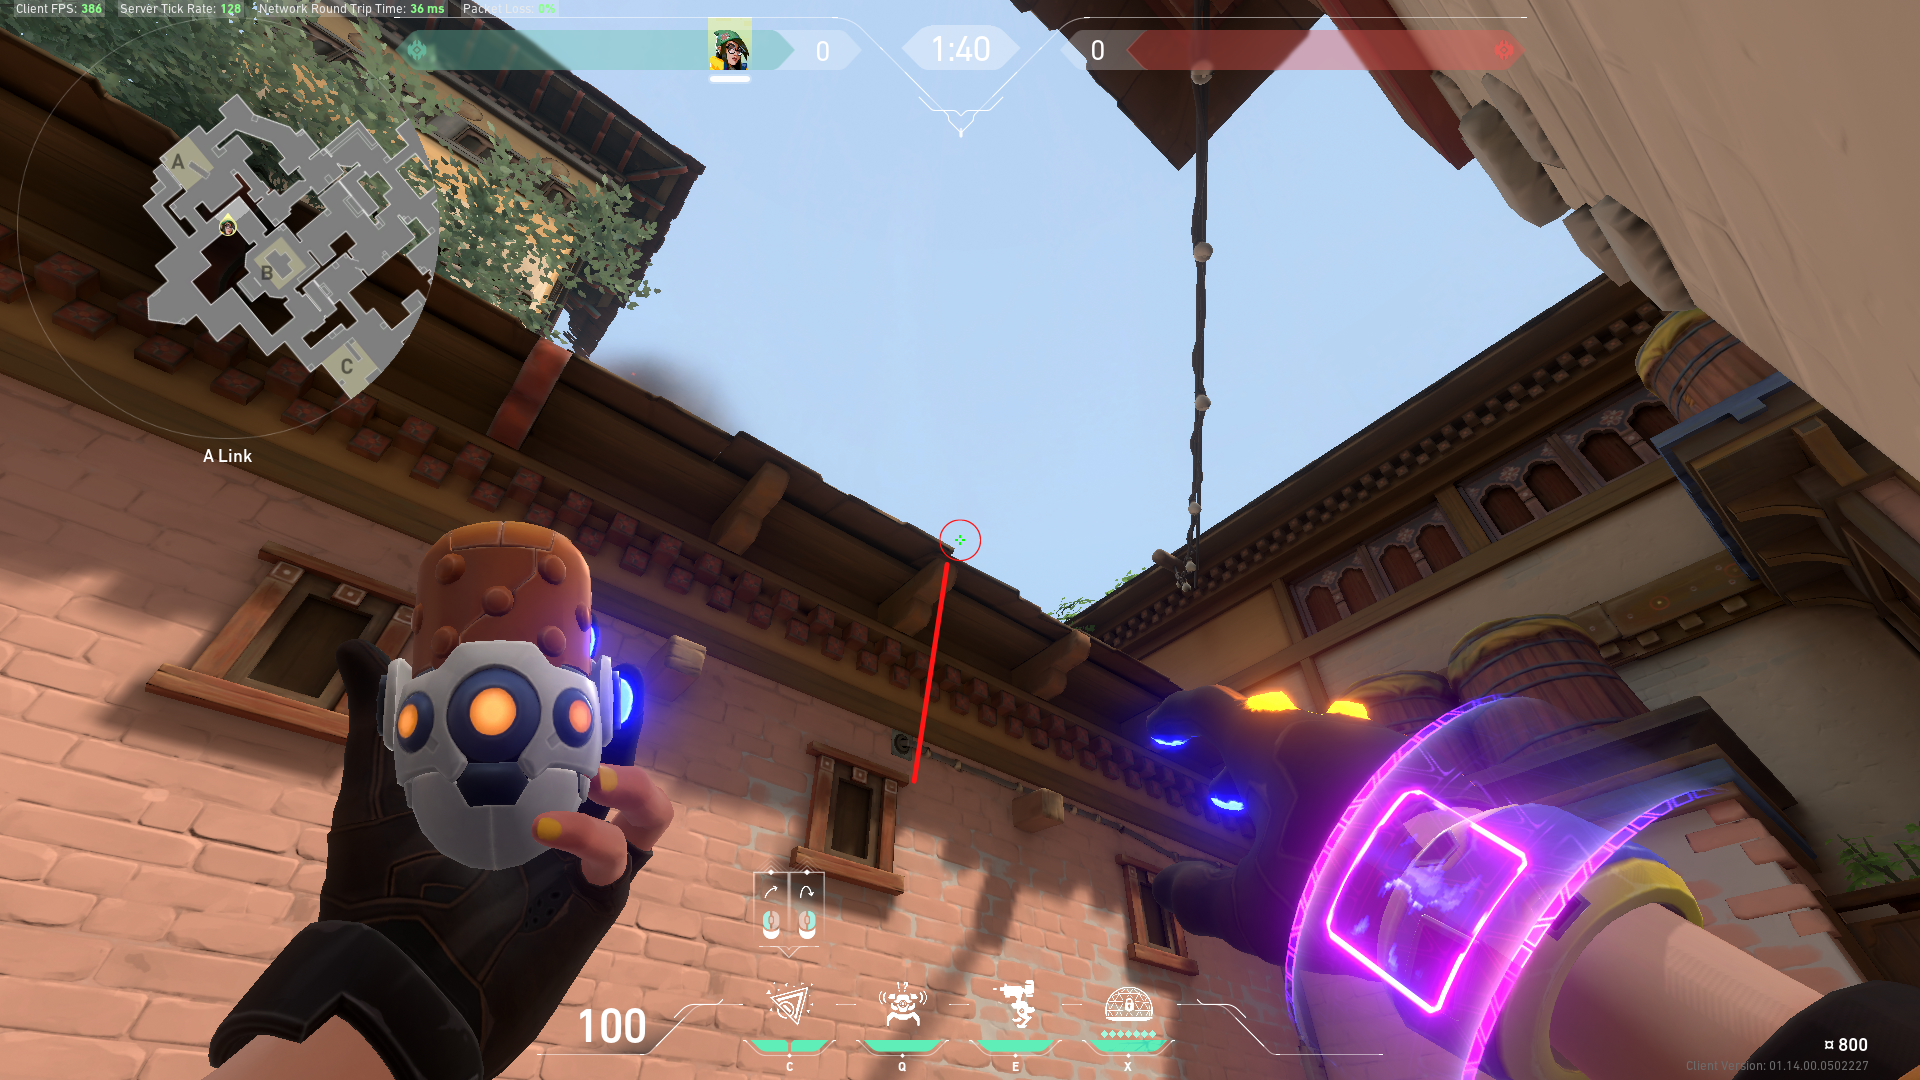
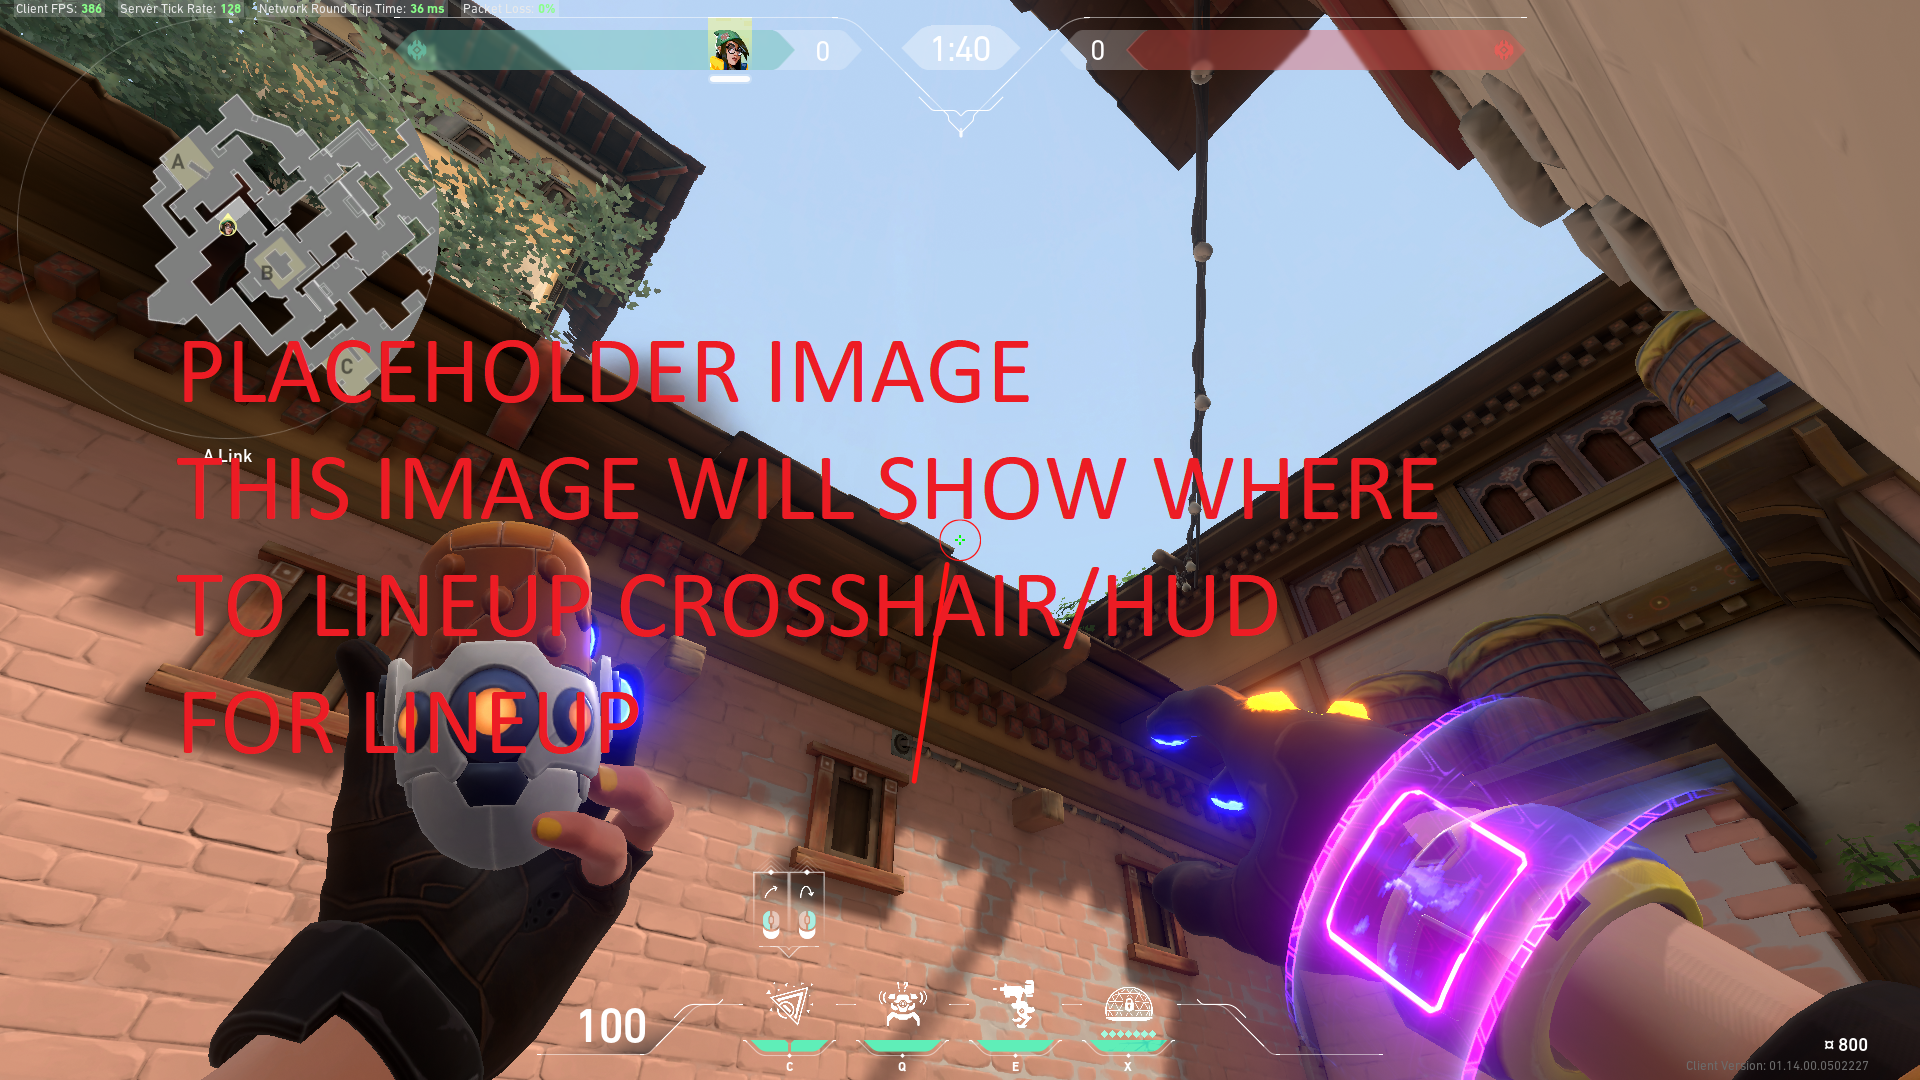
added viper,sova for ascent

diff --git a/src/lineupdata/Kayo.js b/src/lineupdata/Kayo.js
@@ -1,0 +1,57 @@
+import React from 'react'
+import './ContentPage.css'
+
+
+function Kayo(props) {
+    const {selectedImage} = props
+
+    // eslint-disable-next-line default-case
+  switch(selectedImage){
+
+    //----------------------------------------ASCENT-------------------------------------------
+    case 'ascent-a-gen' :
+        return(
+            <div>
+                <img className='agent-image' src='./images/agents/kayo.webp' alt='brimstone'
+                    style={{ left: '545px', top: '275px' }}></img>
+                <iframe className='video-frame' width="560" height="315" src="https://www.youtube.com/embed/z7HuQBXND5c?start=99" title="YouTube video player" 
+                    allow="accelerometer;" allowfullscreen></iframe>
+                <img className='picture-frame' src='./images/screenshots/killjoy/original.png' alt='PLACEHOLDER'></img>
+            </div>
+            );
+
+    case 'ascent-a-dice' :
+        return(
+            <div>
+                <img className='agent-image' src='./images/agents/kayo.webp' alt='brimstone'
+                    style={{ left: '545px', top: '275px' }}></img>
+                <iframe className='video-frame' width="560" height="315" src="https://www.youtube.com/embed/z7HuQBXND5c?start=113" title="YouTube video player" 
+                    allow="accelerometer;" allowfullscreen></iframe>
+                <img className='picture-frame' src='./images/screenshots/killjoy/original.png' alt='PLACEHOLDER'></img>
+            </div>
+            );
+    case 'ascent-b-default' :
+        return(
+            <div>
+                <img className='agent-image' src='./images/agents/kayo.webp' alt='brimstone'
+                    style={{ left: '565px', top: '755px' }}></img>
+                <iframe className='video-frame' width="560" height="315" src="https://www.youtube.com/embed/z7HuQBXND5c?start=172" title="YouTube video player" 
+                    allow="accelerometer;" allowfullscreen></iframe>
+                <img className='picture-frame' src='./images/screenshots/killjoy/original.png' alt='PLACEHOLDER'></img>
+            </div>
+            );
+    case 'ascent-b-corner' :
+        return(
+            <div>
+                <img className='agent-image' src='./images/agents/kayo.webp' alt='brimstone'
+                    style={{ left: '515px', top: '755px' }}></img>
+                <iframe className='video-frame' width="560" height="315" src="https://www.youtube.com/embed/NlOM7SqpX4g?start=350" title="YouTube video player" 
+                    allow="accelerometer;" allowfullscreen></iframe>
+                <img className='picture-frame' src='./images/screenshots/killjoy/original.png' alt='PLACEHOLDER'></img>
+            </div>
+            );
+  }
+  
+}
+
+export default Kayo

diff --git a/src/lineupdata/Sova.js b/src/lineupdata/Sova.js
@@ -1,0 +1,53 @@
+import React from 'react'
+
+function Sova(props) {
+    const {selectedImage} = props
+     // eslint-disable-next-line default-case
+    switch(selectedImage){
+
+    //----------------------------------------ASCENT-------------------------------------------
+    case 'ascent-a-gen' :
+        return(
+            <div>
+                <img className='agent-image' src='./images/agents/sova.webp' alt='brimstone'
+                    style={{ left: '545px', top: '275px' }}></img>
+                <iframe className='video-frame' width="560" height="315" src="https://www.youtube.com/embed/d6hL4AunBZM?start=116" title="YouTube video player" 
+                    allow="accelerometer;" allowfullscreen></iframe>
+                <img className='picture-frame' src='./images/screenshots/killjoy/original.png' alt='PLACEHOLDER'></img>
+            </div>
+            );
+
+    case 'ascent-a-dice' :
+        return(
+            <div>
+                <img className='agent-image' src='./images/agents/sova.webp' alt='brimstone'
+                    style={{ left: '545px', top: '275px' }}></img>
+                <iframe className='video-frame' width="560" height="315" src="https://www.youtube.com/embed/d6hL4AunBZM?start=139" title="YouTube video player" 
+                    allow="accelerometer;" allowfullscreen></iframe>
+                <img className='picture-frame' src='./images/screenshots/killjoy/original.png' alt='PLACEHOLDER'></img>
+            </div>
+            );
+    case 'ascent-b-default' :
+        return(
+            <div>
+                <img className='agent-image' src='./images/agents/sova.webp' alt='brimstone'
+                    style={{ left: '565px', top: '755px' }}></img>
+                <iframe className='video-frame' width="560" height="315" src="https://www.youtube.com/embed/d6hL4AunBZM?start=3" title="YouTube video player" 
+                    allow="accelerometer;" allowfullscreen></iframe>
+                <img className='picture-frame' src='./images/screenshots/killjoy/original.png' alt='PLACEHOLDER'></img>
+            </div>
+            );
+    // case 'ascent-b-corner' :
+    //     return(
+    //         <div>
+    //             <img className='agent-image' src='./images/agents/sova.webp' alt='brimstone'
+    //                 style={{ left: '515px', top: '755px' }}></img>
+    //             <iframe className='video-frame' width="560" height="315" src="https://www.youtube.com/embed/NlOM7SqpX4g?start=350" title="YouTube video player" 
+    //                 allow="accelerometer;" allowfullscreen></iframe>
+    //             <img className='picture-frame' src='./images/screenshots/killjoy/original.png' alt='PLACEHOLDER'></img>
+    //         </div>
+    //         );
+  }
+}
+
+export default Sova

diff --git a/src/lineupdata/Viper.js b/src/lineupdata/Viper.js
@@ -1,0 +1,53 @@
+import React from 'react'
+
+function Viper(props) {
+const {selectedImage} = props
+    // eslint-disable-next-line default-case
+   switch(selectedImage){
+
+   //----------------------------------------ASCENT-------------------------------------------
+   case 'ascent-a-gen' :
+       return(
+           <div>
+               <img className='agent-image' src='./images/agents/viper.webp' alt='viper'
+                   style={{ left: '545px', top: '275px' }}></img>
+               <iframe className='video-frame' width="560" height="315" src="https://www.youtube.com/embed/9egY95LBTMc?start=65"  title="YouTube video player" 
+                   allow="accelerometer;" allowfullscreen></iframe>
+               <img className='picture-frame' src='./images/screenshots/killjoy/original.png' alt='PLACEHOLDER'></img>
+           </div>
+           );
+
+   case 'ascent-a-dice' :
+       return(
+           <div>
+               <img className='agent-image' src='./images/agents/viper.webp' alt='viper'
+                   style={{ left: '545px', top: '275px' }}></img>
+               <iframe className='video-frame' width="560" height="315" src="https://www.youtube.com/embed/9egY95LBTMc?start=93"  title="YouTube video player" 
+                   allow="accelerometer;" allowfullscreen></iframe>
+               <img className='picture-frame' src='./images/screenshots/killjoy/original.png' alt='PLACEHOLDER'></img>
+           </div>
+           );
+   case 'ascent-b-default' :
+       return(
+           <div>
+               <img className='agent-image' src='./images/agents/viper.webp' alt='viper'
+                   style={{ left: '565px', top: '755px' }}></img>
+               <iframe className='video-frame' width="560" height="315" src="https://www.youtube.com/embed/9egY95LBTMc?start=5"  title="YouTube video player" 
+                   allow="accelerometer;" allowfullscreen></iframe>
+               <img className='picture-frame' src='./images/screenshots/killjoy/original.png' alt='PLACEHOLDER'></img>
+           </div>
+           );
+   case 'ascent-b-corner' :
+       return(
+           <div>
+               <img className='agent-image' src='./images/agents/viper.webp' alt='viper'
+                   style={{ left: '515px', top: '755px' }}></img>
+               <iframe className='video-frame' width="560" height="315" src="https://www.youtube.com/embed/LSml72zT_5A?start=40" title="YouTube video player" 
+                   allow="accelerometer;" allowfullscreen></iframe>
+               <img className='picture-frame' src='./images/screenshots/killjoy/original.png' alt='PLACEHOLDER'></img>
+           </div>
+           );
+ }
+}
+
+export default Viper

diff --git a/src/maps/AscentInfo.js b/src/maps/AscentInfo.js
@@ -4,6 +4,9 @@ import Brimstone from '../lineupdata/Brimstone'
 
 import '../maps/MapInfo.css'
 import Killjoy from '../lineupdata/Killjoy'
+import Kayo from '../lineupdata/Kayo'
+import Sova from '../lineupdata/Sova'
+import Viper from '../lineupdata/Viper'
 
 function AscentInfo(props) {
     const {agent} = props
@@ -23,6 +26,15 @@ function AscentInfo(props) {
         }
         else if(agent === 'killjoy'){
             return(<div><Killjoy selectedImage={selectedImage}/></div>)
+        }
+        else if(agent === 'kayo'){
+            return(<div><Kayo selectedImage={selectedImage}/></div>)
+        }
+        else if(agent === 'sova'){
+            return(<div><Sova selectedImage={selectedImage}/></div>)
+        }
+        else if(agent === 'viper'){
+            return(<div><Viper selectedImage={selectedImage}/></div>)
         }
     }
   return (
